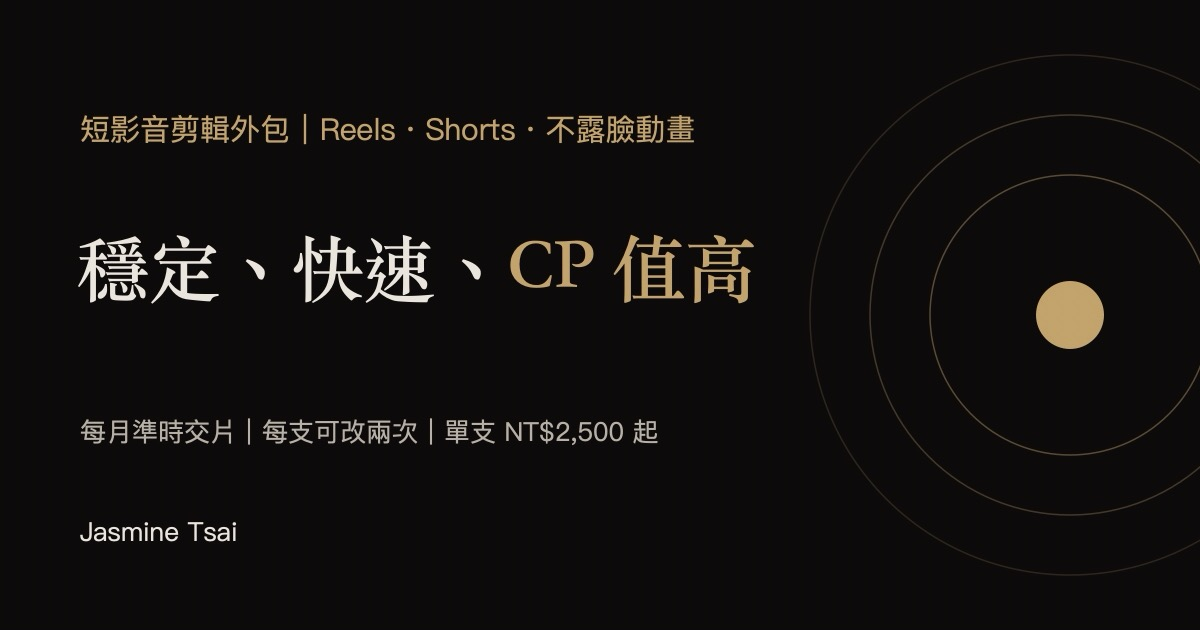
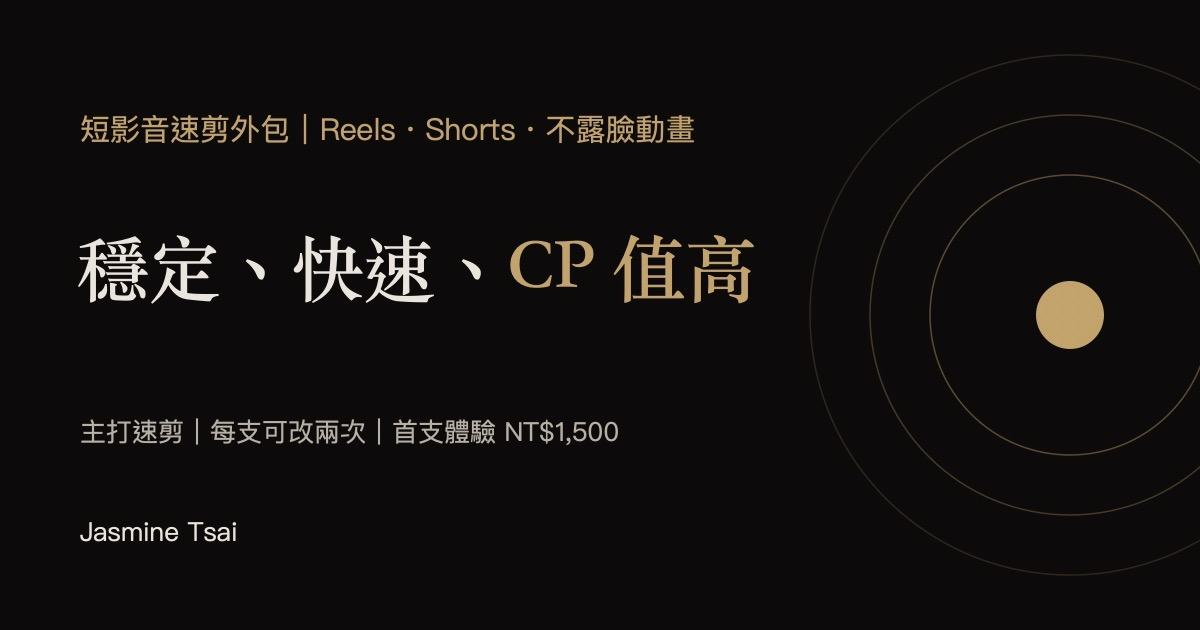
Reposition video page as quick-edit, new prices, inline animation breakdowns

Changed region(s): [[0.0617, 0.6635, 0.4317, 0.7238], [0.4625, 0.6635, 0.555, 0.7238], [0.1233, 0.181, 0.2158, 0.2413]]

diff --git a/ai-video/index.html b/ai-video/index.html
@@ -3,11 +3,11 @@
 <head>
 <meta charset="utf-8">
 <meta name="viewport" content="width=device-width, initial-scale=1, viewport-fit=cover">
-<title>短影音剪輯外包｜穩定、快速、CP 值高｜Jasmine Tsai</title>
-<meta name="description" content="短影音剪輯外包：有素材幫你剪成 Reels、Shorts，沒有素材也能從腳本做到不露臉動畫。單支或包月都可以，用 AI 加速，風格穩定、交件快。">
+<title>短影音速剪外包｜穩定、快速、CP 值高｜Jasmine Tsai</title>
+<meta name="description" content="短影音速剪外包：口說、知識分享、Vlog 剪乾淨、上字幕和標題卡，很快就能上片。首支體驗 NT$1,500，包月更划算；也提供從腳本做到不露臉動畫。">
 <meta name="theme-color" content="#0c0b0a">
-<meta property="og:title" content="短影音剪輯外包｜穩定、快速、CP 值高">
-<meta property="og:description" content="Reels、Shorts 代剪與不露臉動畫，單支或包月都可以。先看作品，再聊合作。">
+<meta property="og:title" content="短影音速剪外包｜穩定、快速、CP 值高">
+<meta property="og:description" content="Reels、Shorts 速剪與不露臉動畫，首支體驗 NT$1,500，包月更划算。先看作品，再聊合作。">
 <meta property="og:image" content="https://jasmine.jas-soul.com/assets/img/og-ai-video.jpg">
 <meta property="og:image:width" content="1200">
 <meta property="og:image:height" content="630">
@@ -38,11 +38,12 @@
  "inLanguage": "zh-Hant",
  "provider": {"@id": "https://jasmine.jas-soul.com/#person", "@type": "Person", "name": "Jasmine Tsai", "url": "https://jasmine.jas-soul.com/"},
  "offers": [
-  {"@type": "Offer", "name": "素材剪輯｜單支", "price": "2500", "priceCurrency": "TWD", "url": "https://jasmine.jas-soul.com/ai-video/#pricing"},
-  {"@type": "Offer", "name": "素材剪輯｜每月 4 支", "price": "9000", "priceCurrency": "TWD", "url": "https://jasmine.jas-soul.com/ai-video/#pricing"},
-  {"@type": "Offer", "name": "素材剪輯｜每月 8 支", "price": "16000", "priceCurrency": "TWD", "url": "https://jasmine.jas-soul.com/ai-video/#pricing"},
-  {"@type": "Offer", "name": "不露臉動畫（含腳本）｜單支", "price": "6000", "priceCurrency": "TWD", "url": "https://jasmine.jas-soul.com/ai-video/#pricing"},
-  {"@type": "Offer", "name": "不露臉動畫（含腳本）｜每月 4 支", "price": "20000", "priceCurrency": "TWD", "url": "https://jasmine.jas-soul.com/ai-video/#pricing"}
+  {"@type": "Offer", "name": "素材速剪｜首支體驗", "price": "1500", "priceCurrency": "TWD", "url": "https://jasmine.jas-soul.com/ai-video/#pricing"},
+  {"@type": "Offer", "name": "素材速剪｜單支", "price": "1800", "priceCurrency": "TWD", "url": "https://jasmine.jas-soul.com/ai-video/#pricing"},
+  {"@type": "Offer", "name": "素材速剪｜每月 4 支", "price": "6400", "priceCurrency": "TWD", "url": "https://jasmine.jas-soul.com/ai-video/#pricing"},
+  {"@type": "Offer", "name": "素材速剪｜每月 8 支", "price": "12000", "priceCurrency": "TWD", "url": "https://jasmine.jas-soul.com/ai-video/#pricing"},
+  {"@type": "Offer", "name": "不露臉動畫（含腳本）｜單支", "price": "3500", "priceCurrency": "TWD", "url": "https://jasmine.jas-soul.com/ai-video/#pricing"},
+  {"@type": "Offer", "name": "不露臉動畫（含腳本）｜每月 4 支", "price": "12000", "priceCurrency": "TWD", "url": "https://jasmine.jas-soul.com/ai-video/#pricing"}
  ]
 }
 </script>
@@ -56,7 +57,7 @@
   <nav aria-label="本頁選單">
     <ul class="nav-links">
       <li><a href="#works">作品</a></li>
-      <li><a href="#service">服務內容</a></li>
+      <li><a href="#scope">速剪內容</a></li>
       <li><a href="#pricing">價格</a></li>
       <li><a href="#faq">常見問題</a></li>
     </ul>
@@ -67,12 +68,12 @@
 <main id="main">
 
   <section class="th-hero">
-    <p class="th-eyebrow">短影音剪輯外包｜Reels・Shorts・不露臉動畫</p>
+    <p class="th-eyebrow">短影音速剪外包｜Reels・Shorts・不露臉動畫</p>
     <h1>穩定、快速、<span class="av-nowrap">CP 值高</span></h1>
     <ul class="av-keys">
-      <li><strong>穩定</strong><span>第一支定好風格，之後每支一致，每月準時交片</span></li>
-      <li><strong>快速</strong><span>流程固定，收到素材就開工，交件更快</span></li>
-      <li><strong>CP 值高</strong><span>單支 NT$2,500 起，包月平均每支 NT$2,000</span></li>
+      <li><strong>穩定</strong><span>第一支定好風格，之後每支一致</span></li>
+      <li><strong>快速</strong><span>主打速剪，素材到了很快就能上片</span></li>
+      <li><strong>CP 值高</strong><span>首支體驗 NT$1,500，包月平均每支 NT$1,500 起</span></li>
     </ul>
     <div class="th-actions">
       <a class="th-btn" href="#works">先看作品</a>
@@ -84,36 +85,60 @@
     <h2>作品</h2>
     <p class="th-intro">字幕、配色和節奏，都可以依照你習慣的剪輯風格配合。</p>
 
-    <h3 class="th-subhead">素材剪輯：你拍好，我來剪</h3>
+    <h3 class="th-subhead">素材速剪：你拍好，我來剪</h3>
     <div class="av-works">
       <figure>
         <video src="v/concert.mp4" poster="v/concert.jpg" controls muted playsinline preload="metadata"></video>
-        <figcaption><strong>演奏會紀錄</strong><span>活動紀錄，現場片段配上字幕</span></figcaption>
+        <figcaption><strong>演奏會紀錄</strong><span>活動紀錄，速剪，現場片段配上字幕</span></figcaption>
       </figure>
       <figure>
         <video src="v/swim.mp4" poster="v/swim.jpg" controls muted playsinline preload="metadata"></video>
-        <figcaption><strong>游泳 1500 公尺</strong><span>生活 vlog，口說加配樂</span></figcaption>
+        <figcaption><strong>游泳 1500 公尺</strong><span>生活 vlog，速剪，口說加配樂</span></figcaption>
       </figure>
       <figure>
         <video src="v/selfmedia.mp4" poster="v/selfmedia.jpg" controls muted playsinline preload="metadata"></video>
-        <figcaption><strong>自媒體經營真諦</strong><span>戶外口說，重點字上色</span></figcaption>
+        <figcaption><strong>自媒體經營真諦</strong><span>戶外口說，速剪，重點字上色</span></figcaption>
       </figure>
     </div>
 
     <h3 class="th-subhead">不露臉動畫：從腳本做到動畫</h3>
-    <div class="av-works">
-      <figure>
+    <div class="av-anim">
+      <article class="av-anim-row">
         <video src="v/face.mp4" poster="v/face.jpg" controls muted playsinline preload="metadata"></video>
-        <figcaption><strong>剪片要不要露臉</strong><span>行銷知識，圖卡動畫加音效</span></figcaption>
-      </figure>
-      <figure>
+        <div class="av-anim-case">
+        <p class="av-case-tag">行銷知識・42 秒</p>
+        <h4>剪片要不要露臉</h4>
+        <dl>
+          <dt>目標</dt><dd>回答新手最常卡住的問題，最後引導留言「拍片」拿資源</dd>
+          <dt>結構</dt><dd>開頭丟問題 → 拆解兩種做法 → 「沒有誰比較好」→ 三個問題幫你判斷 → 留言導流</dd>
+          <dt>畫面</dt><dd>真人照片加圖卡、露臉與不露臉對照表，搭配紙張音效</dd>
+        </dl>
+        </div>
+      </article>
+      <article class="av-anim-row">
         <video src="v/karma.mp4" poster="v/karma.jpg" controls muted playsinline preload="metadata"></video>
-        <figcaption><strong>業力</strong><span>觀念解說，純文字動畫</span></figcaption>
-      </figure>
-      <figure>
+        <div class="av-anim-case">
+        <p class="av-case-tag">靈性白話文・66 秒</p>
+        <h4>業力</h4>
+        <dl>
+          <dt>目標</dt><dd>把難懂的靈性詞翻成白話，讓沒有背景的人也聽得懂</dd>
+          <dt>結構</dt><dd>共鳴情境「換了人，換了工作」→ 拆字義 → 壓力與感情兩個循環例子 → 澄清誤解 → 三步驟練習 → 預告下一集</dd>
+          <dt>畫面</dt><dd>文字動畫加循環流程圖與圖示，整個系列用同一套紫色</dd>
+        </dl>
+        </div>
+      </article>
+      <article class="av-anim-row">
         <video src="v/guanyin.mp4" poster="v/guanyin.jpg" controls muted playsinline preload="metadata"></video>
-        <figcaption><strong>觀自在</strong><span>情境故事，圖示動畫加音效</span></figcaption>
-      </figure>
+        <div class="av-anim-case">
+        <p class="av-case-tag">靈性白話文・86 秒</p>
+        <h4>觀自在</h4>
+        <dl>
+          <dt>目標</dt><dd>用生活比喻說明「不被情緒綁住」，讓觀念變得可以練習</dd>
+          <dt>結構</dt><dd>情境「被情緒牽著走」→ 拆字「觀」與「自在」→ 三個比喻：天氣、泥水、手機通知 → 練習「停一下，說出來」</dd>
+          <dt>畫面</dt><dd>把比喻畫成圖示動畫，重點字上色、重點音效帶節奏</dd>
+        </dl>
+        </div>
+      </article>
     </div>
   </section>
 
@@ -132,8 +157,8 @@
     <h2>兩種做法</h2>
     <div class="th-two">
       <div class="th-panel">
-        <h3>素材剪輯</h3>
-        <p>你提供拍好的素材，我剪成可以直接上架的短影音。</p>
+        <h3>素材速剪</h3>
+        <p>你提供拍好的素材，我快速剪成可以直接上架的短影音。</p>
         <ul class="th-checks">
           <li>剪掉空白、口誤和重複的段落</li>
           <li>逐字字幕，重點字上色</li>
@@ -150,10 +175,36 @@
           <li>文字與圖示動畫，統一你的品牌配色</li>
           <li>重點音效，讓節奏更好看下去</li>
           <li>附封面，系列影片風格一致</li>
-          <li>不含真人配音</li>
+          <li>旁白可用 AI 配音，不含真人配音</li>
         </ul>
       </div>
     </div>
+  </section>
+
+  <section class="th-section" id="scope">
+    <h2>速剪包含什麼？</h2>
+    <p class="th-intro">主打快速上片，把影片剪乾淨、好讀、好看下去。</p>
+    <div class="th-two">
+      <div class="th-panel">
+        <h3>速剪包含</h3>
+        <ul class="th-checks">
+          <li>剪掉空白、口誤和重複的段落</li>
+          <li>逐字字幕，重點字上色</li>
+          <li>開頭標題卡</li>
+          <li>浮水印、裁成 9:16</li>
+        </ul>
+      </div>
+      <div class="th-panel th-panel-quiet">
+        <h3>不包含</h3>
+        <ul class="th-plain">
+          <li>大量畫面穿插、B-roll 素材搜集</li>
+          <li>調色、美顏、修膚</li>
+          <li>複雜特效、動態圖像</li>
+          <li>電影感的精緻剪輯</li>
+        </ul>
+      </div>
+    </div>
+    <p class="th-note">適合口說、知識分享、Vlog 這類要穩定上片的影片。如果需要很精緻的剪輯，建議找專門的後製團隊。</p>
   </section>
 
   <section class="th-section" id="process">
@@ -168,24 +219,24 @@
 
   <section class="th-section th-band" id="pricing">
     <h2>價格</h2>
-    <p class="th-intro">單支可以先試合作，確定要長期配合再改包月，平均每支更划算。</p>
+    <p class="th-intro">第一支用體驗價先試試看，合作順了再改包月，平均每支更划算。</p>
 
-    <h3 class="th-subhead">素材剪輯</h3>
+    <h3 class="th-subhead">素材速剪</h3>
     <div class="th-plans">
       <article class="th-plan">
-        <h4>單支</h4>
-        <p class="th-count">NT$2,500</p>
-        <p class="th-incl">適合先試合作</p>
+        <h4>首支體驗</h4>
+        <p class="th-count">NT$1,500</p>
+        <p class="th-incl">第一次合作限一支，之後單支 NT$1,800</p>
       </article>
       <article class="th-plan is-main">
         <h4>每月 4 支（推薦）</h4>
-        <p class="th-count">NT$9,000</p>
-        <p class="th-incl">平均每支 NT$2,250</p>
+        <p class="th-count">NT$6,400</p>
+        <p class="th-incl">平均每支 NT$1,600</p>
       </article>
       <article class="th-plan">
         <h4>每月 8 支</h4>
-        <p class="th-count">NT$16,000</p>
-        <p class="th-incl">平均每支 NT$2,000</p>
+        <p class="th-count">NT$12,000</p>
+        <p class="th-incl">平均每支 NT$1,500</p>
       </article>
     </div>
 
@@ -193,13 +244,13 @@
     <div class="th-plans av-plans-2">
       <article class="th-plan">
         <h4>單支</h4>
-        <p class="th-count">NT$6,000</p>
+        <p class="th-count">NT$3,500</p>
         <p class="th-incl">含腳本、動畫、音效、封面</p>
       </article>
       <article class="th-plan is-main">
         <h4>每月 4 支（推薦）</h4>
-        <p class="th-count">NT$20,000</p>
-        <p class="th-incl">平均每支 NT$5,000</p>
+        <p class="th-count">NT$12,000</p>
+        <p class="th-incl">平均每支 NT$3,000</p>
       </article>
     </div>
 
@@ -228,6 +279,10 @@
       <details>
         <summary>可以修改嗎？</summary>
         <p>可以，每支影片可以修改兩次。第一支會花比較多時間跟你對齊風格，之後的影片照同一個風格製作，修改也會比較快。</p>
+      </details>
+      <details>
+        <summary>可以剪得很精緻嗎？</summary>
+        <p>我主打速剪：口說影片剪乾淨、上字幕和標題卡，很快就能上片。調色、美顏或大量畫面穿插不在服務範圍，需要的話建議找專門的後製團隊。</p>
       </details>
       <details>
         <summary>用 AI 剪，品質會不會比較差？</summary>
@@ -269,7 +324,7 @@
 </footer>
 <script>
 (()=>{
-  const vids=[...document.querySelectorAll('.av-works video')];
+  const vids=[...document.querySelectorAll('.av-works video, .av-anim video')];
   const play=v=>{vids.forEach(o=>{if(o!==v)o.pause();});const p=v.play();if(p)p.catch(()=>{});};
   vids.forEach(v=>{
     v.muted=true;

diff --git a/ai-video/ai-video.css b/ai-video/ai-video.css
@@ -20,3 +20,18 @@
 .av-keys strong{flex:0 0 4.5em;color:var(--gold);font-family:var(--f-serif);font-weight:500;font-size:18px}
 .av-keys span{color:var(--paper-dim)}
 .av-nowrap{white-space:nowrap}
+.av-cases{display:grid;grid-template-columns:repeat(3,minmax(0,1fr));gap:16px;margin-top:20px}
+.av-case-tag{font-size:13px;letter-spacing:.08em;color:var(--gold)}
+.av-cases h4{margin-top:6px;font-family:var(--f-serif);font-size:19px;font-weight:500;color:var(--paper)}
+.av-cases dl{margin:14px 0 0}
+.av-cases dt{margin-top:12px;font-size:12px;letter-spacing:.2em;color:var(--muted)}
+.av-cases dd{margin:2px 0 0;font-size:14.5px;line-height:1.75;color:var(--paper-dim)}
+@media (max-width:860px){.av-cases{grid-template-columns:minmax(0,1fr)}}
+.av-anim{display:grid;gap:clamp(20px,3vw,32px);margin-top:20px}
+.av-anim-row{display:grid;grid-template-columns:minmax(0,260px) minmax(0,1fr);gap:clamp(20px,3vw,40px);align-items:center;padding:clamp(18px,2.4vw,28px);border:1px solid var(--line-2);border-radius:14px}
+.av-anim-row video{display:block;width:100%;aspect-ratio:9/16;height:auto;object-fit:cover;border-radius:12px;border:1px solid var(--line-2);background:var(--ink-3)}
+.av-anim-case h4{margin-top:6px;font-family:var(--f-serif);font-size:clamp(19px,1.8vw,22px);font-weight:500;color:var(--paper)}
+.av-anim-case dl{margin:14px 0 0}
+.av-anim-case dt{margin-top:14px;font-size:12px;letter-spacing:.2em;color:var(--muted)}
+.av-anim-case dd{margin:3px 0 0;font-size:15px;line-height:1.8;color:var(--paper-dim)}
+@media (max-width:560px){.av-anim-row{grid-template-columns:minmax(0,1fr)}.av-anim-row video{max-width:280px;margin-inline:auto}}

diff --git a/index.html b/index.html
@@ -376,7 +376,7 @@
       <p class="svc-en">Short Video Editing</p>
       <h3 class="svc-title">短影音剪輯外包</h3>
       <p class="svc-lede">拍好的素材幫你剪成 Reels、Shorts，也可以從腳本做到不露臉動畫。穩定、快速、CP 值高。</p>
-      <p class="svc-price">單支 NT$2,500 起，可包月</p>
+      <p class="svc-price">主打速剪，首支體驗 NT$1,500，可包月</p>
       <a class="btn-zoom" href="ai-video/">看作品與價格 <span aria-hidden="true">→</span></a>
     </div>
     <div class="svc reveal">
